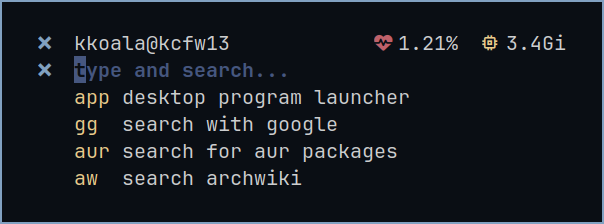
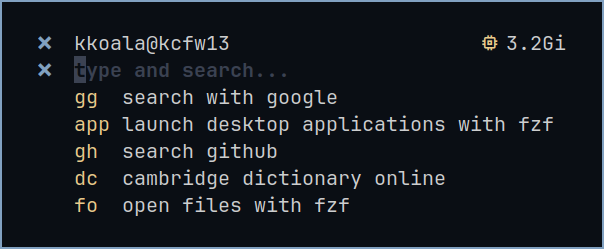
update default config & readme

diff --git a/README.md b/README.md
@@ -78,22 +78,24 @@ external_editor = "" # if set, pressing ctrl+e (or pressing v in vi normal mode)
 
 # ASCII color codes are allowed with these options. However, \x1b should be replaced with \u001B (unicode escape) because the rust toml crate cannot read \x as an escaped character...
 [interface]
-header_cmd = "" # Run a shell command and make the stdout printed above the header
+# Run a shell command and make the stdout printed above the header
+header_cmd = """
+echo -e \"\n   \u001B[34;1m \u001B[0m $USER@$HOSTNAME                     \u001B[33m\u001B[0m $(free -h | awk 'FNR == 2 {print $3}')\"
+"""
 header_cmd_trimmed_lines = 0 # Remove a number of lines from header_cmd output, in case of some programs printing excessive empty lines at the end of its output
 # use three quotes to write longer commands
-header = """
-  \u001B[34m \u001B[0m otter-launcher \u001B[34m>\u001B[0m """
+header = """   \u001B[34;1m \u001B[0;1m """
 header_concatenate = false # print header and header_cmd output at the same line, default to false
-list_prefix = "     "
-selection_prefix = "   > "
-place_holder = "type and search"
-default_module_message = "" # if set, the text will be shown when the default module is in use
+list_prefix = "      "
+selection_prefix = "    \u001B[31;1m> "
+place_holder = "type and search..."
+default_module_message = "      search the internet" # if set, the text will be shown when the default module is in use
 empty_module_message = "" # the text to show when empty module is in use
 suggestion_mode = "list" # available options: list, hint
-suggestion_lines = 1 # length of the suggestion list, set to 0 to disable suggestions and tab completion
+suggestion_lines = 5 # length of the suggestion list, set to 0 to disable suggestions and tab completion
 indicator_with_arg_module = "" # a sign showing whether the module should run with an argument
 indicator_no_arg_module = ""
-prefix_padding = 0 # format prefixes to have a unified width; prefixes will be padded with spaces to have a least specified number of chars
+prefix_padding = 3 # format prefixes to have a unified width; prefixes will be padded with spaces to have a least specified number of chars
 # below color options affect all modules; per-module coloring is allowed by using ascii color codes at each module's configurations
 prefix_color = "\u001B[33m"
 description_color = "\u001B[38m"
@@ -105,6 +107,7 @@ hint_color = "\u001B[30m" # the color of hint mode suggestions
 [[modules]]
 description = "search with google"
 prefix = "gg"
+# try wm's exec command if 'setsid -f' does not work, eg. 'hyprctl dispatch exec'
 cmd = "setsid -f xdg-open 'https://www.google.com/search?q={}'"
 with_argument = true # If "with_argument" is true, the {} in the cmd value will be replaced with user input. If the field is not explicitly set, will be taken as false.
 url_encode = true # "url_encode" should be true if the module is set to call webpages, as this ensures special characters in url being readable to browsers. It'd better be false with shell scripts. If the field is not explicitly set, will be taken as false.
@@ -143,56 +146,59 @@ url_encode = true
 [[modules]]
 description = "open files with fzf"
 prefix = "fo"
-cmd = "setsid -f $TERM --class fzf -e sh -c 'fd --type f | fzf | setsid -f xargs -r -I {} xdg-open \"{}\"'"
+cmd = "fd --type f | fzf | setsid -f xargs -r -I {} xdg-open '{}'"
 
 [[modules]]
 description = "open folders with fzf and yazi"
 prefix = "yz"
-cmd = "setsid -f $TERM --class yazi -e sh -c 'fd --type d | fzf | xargs -r -I {} $TERM -e yazi \"{}\"'"
+cmd = "fd --type d | fzf | xargs -r -I {} yazi '{}'"
 ```
 
 # Examples for Styling
 
 ## Default Config
 
-![Default Config](./assets/default.png)
+![Default Config](./assets/list.png)
 
 ```
 [interface]
-header = "  \u001B[34m \u001B[0m otter-launcher \u001B[34m>\u001B[0m "
-list_prefix = "     "
-place_holder = "type and search"
+header_cmd = """
+echo -e \"\n   \u001B[34;1m \u001B[0m $USER@$HOSTNAME                     \u001B[33m\u001B[0m $(free -h | awk 'FNR == 2 {print $3}')\"
+"""
+header = """   \u001B[34;1m \u001B[0;1m """
+list_prefix = "      "
+selection_prefix = "    \u001B[31;1m> "
+place_holder = "type and search..."
+default_module_message = "      search the internet"
 suggestion_mode = "list"
-suggestion_lines = 1
+suggestion_lines = 5
 indicator_with_arg_module = ""
 indicator_no_arg_module = ""
+prefix_padding = 3
 prefix_color = "\u001B[33m"
 description_color = "\u001B[38m"
 place_holder_color = "\u001B[30m"
+hint_color = "\u001B[30m"
 ```
 
-## List
+## Two Liner in Hint Mode
 
-![List Config](./assets/list.png)
+![Two Liner Config](./assets/default.png)
 
 ```
+[interface]
 header_cmd = """
-echo -e \"\n   \u001B[34;1m \u001B[0m $USER@$HOSTNAME            \u001B[31m\u001B[0m $(mpstat | awk 'FNR ==4 {print $4}')%  \u001B[33m\u001B[0m $(free -h | awk 'FNR == 2 {print $3}')\"
+echo -e \"  \u001B[34;1m  >\u001B[0m $USER@$HOSTNAME            \u001B[31m\u001B[0m $(mpstat | awk 'FNR ==4 {print $4}')%  \u001B[33m\u001B[0m $(free -h | awk 'FNR == 2 {print $3}')\"
 """
 header_cmd_trimmed_lines = 0
-header = """
-   \u001B[34;1m \u001B[0;1m """
-list_prefix = "      "
-selection_prefix = "    \u001B[31;1m> "
-indicator_with_arg_module = ""
-indicator_no_arg_module = ""
+header = """     \u001B[34;1m>\u001B[0;1m """
+list_prefix = "       "
+selection_prefix = "     > "
+indicator_with_arg_module = "^ "
+indicator_no_arg_module = "$ "
 place_holder = "type and search..."
-default_module_message = "      \u001B[33msearch\u001B[0m the internet"
-suggestion_mode = "list"
-suggestion_lines = 4
-suggestion_spacing = 0
+suggestion_mode = "hint"
 prefix_color = "\u001B[33m"
-prefix_padding = 3
 description_color = "\u001B[38m"
 place_holder_color = "\u001B[90m"
 hint_color = "\u001B[90m"
